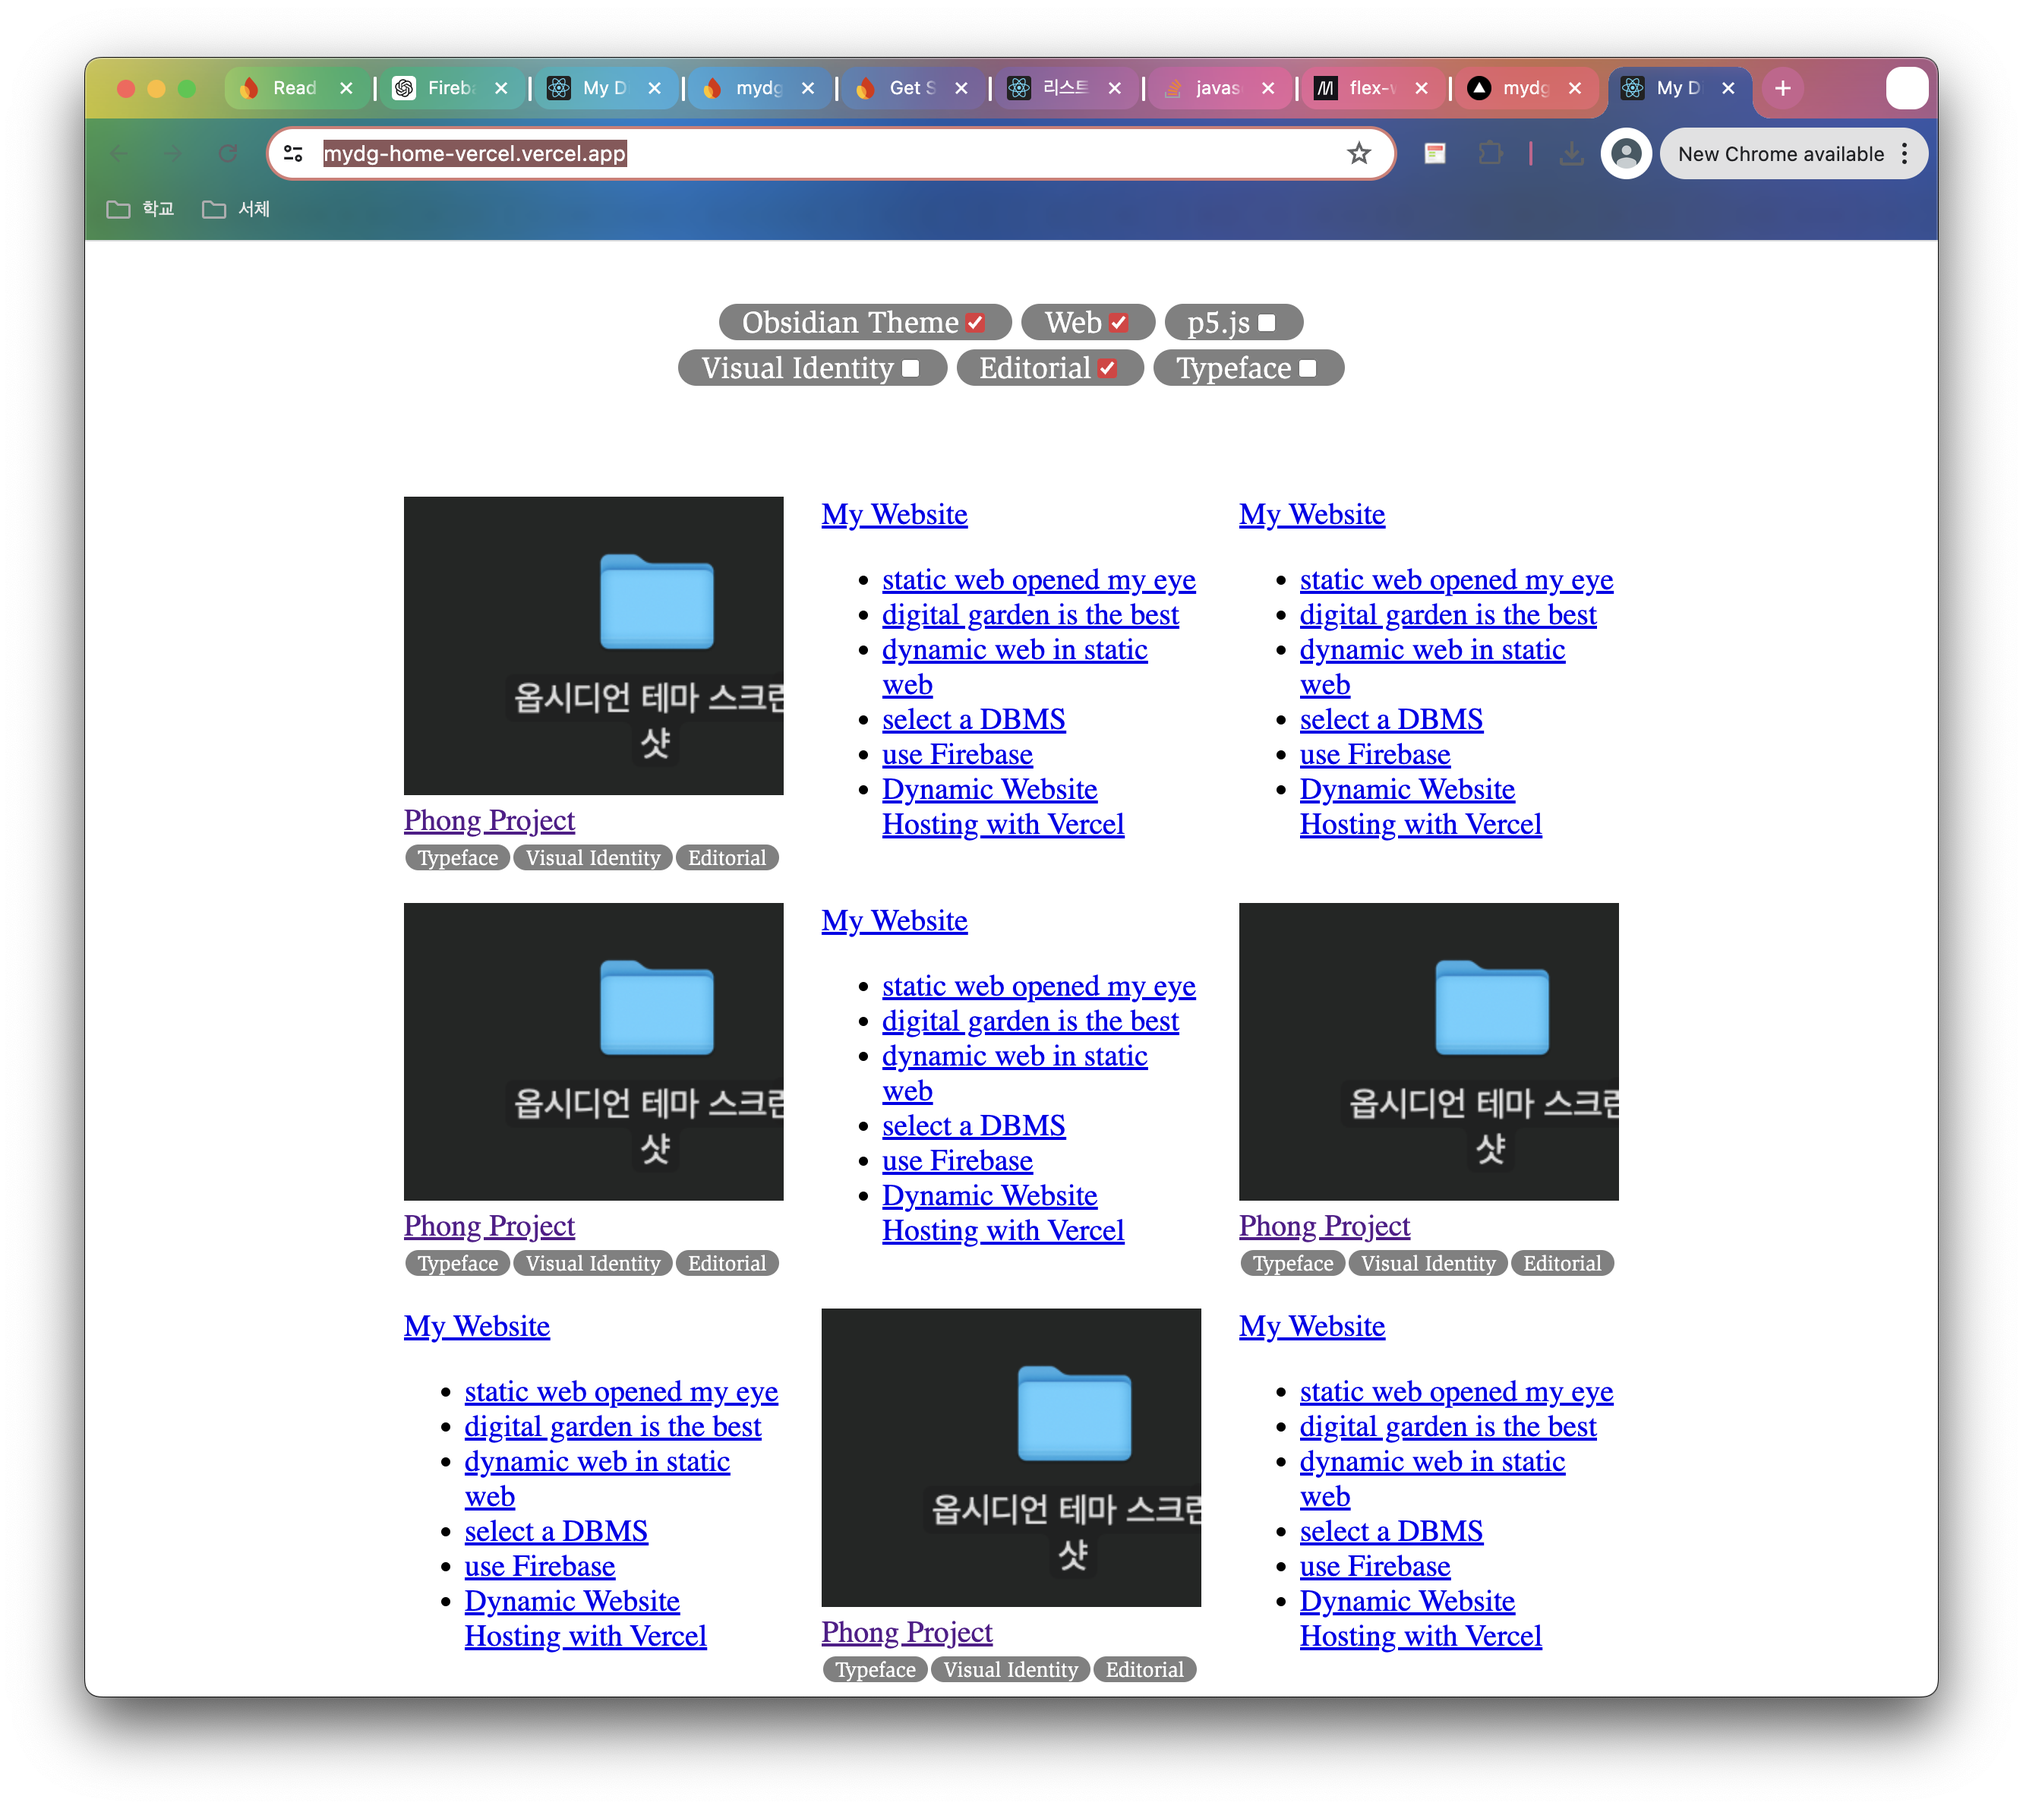
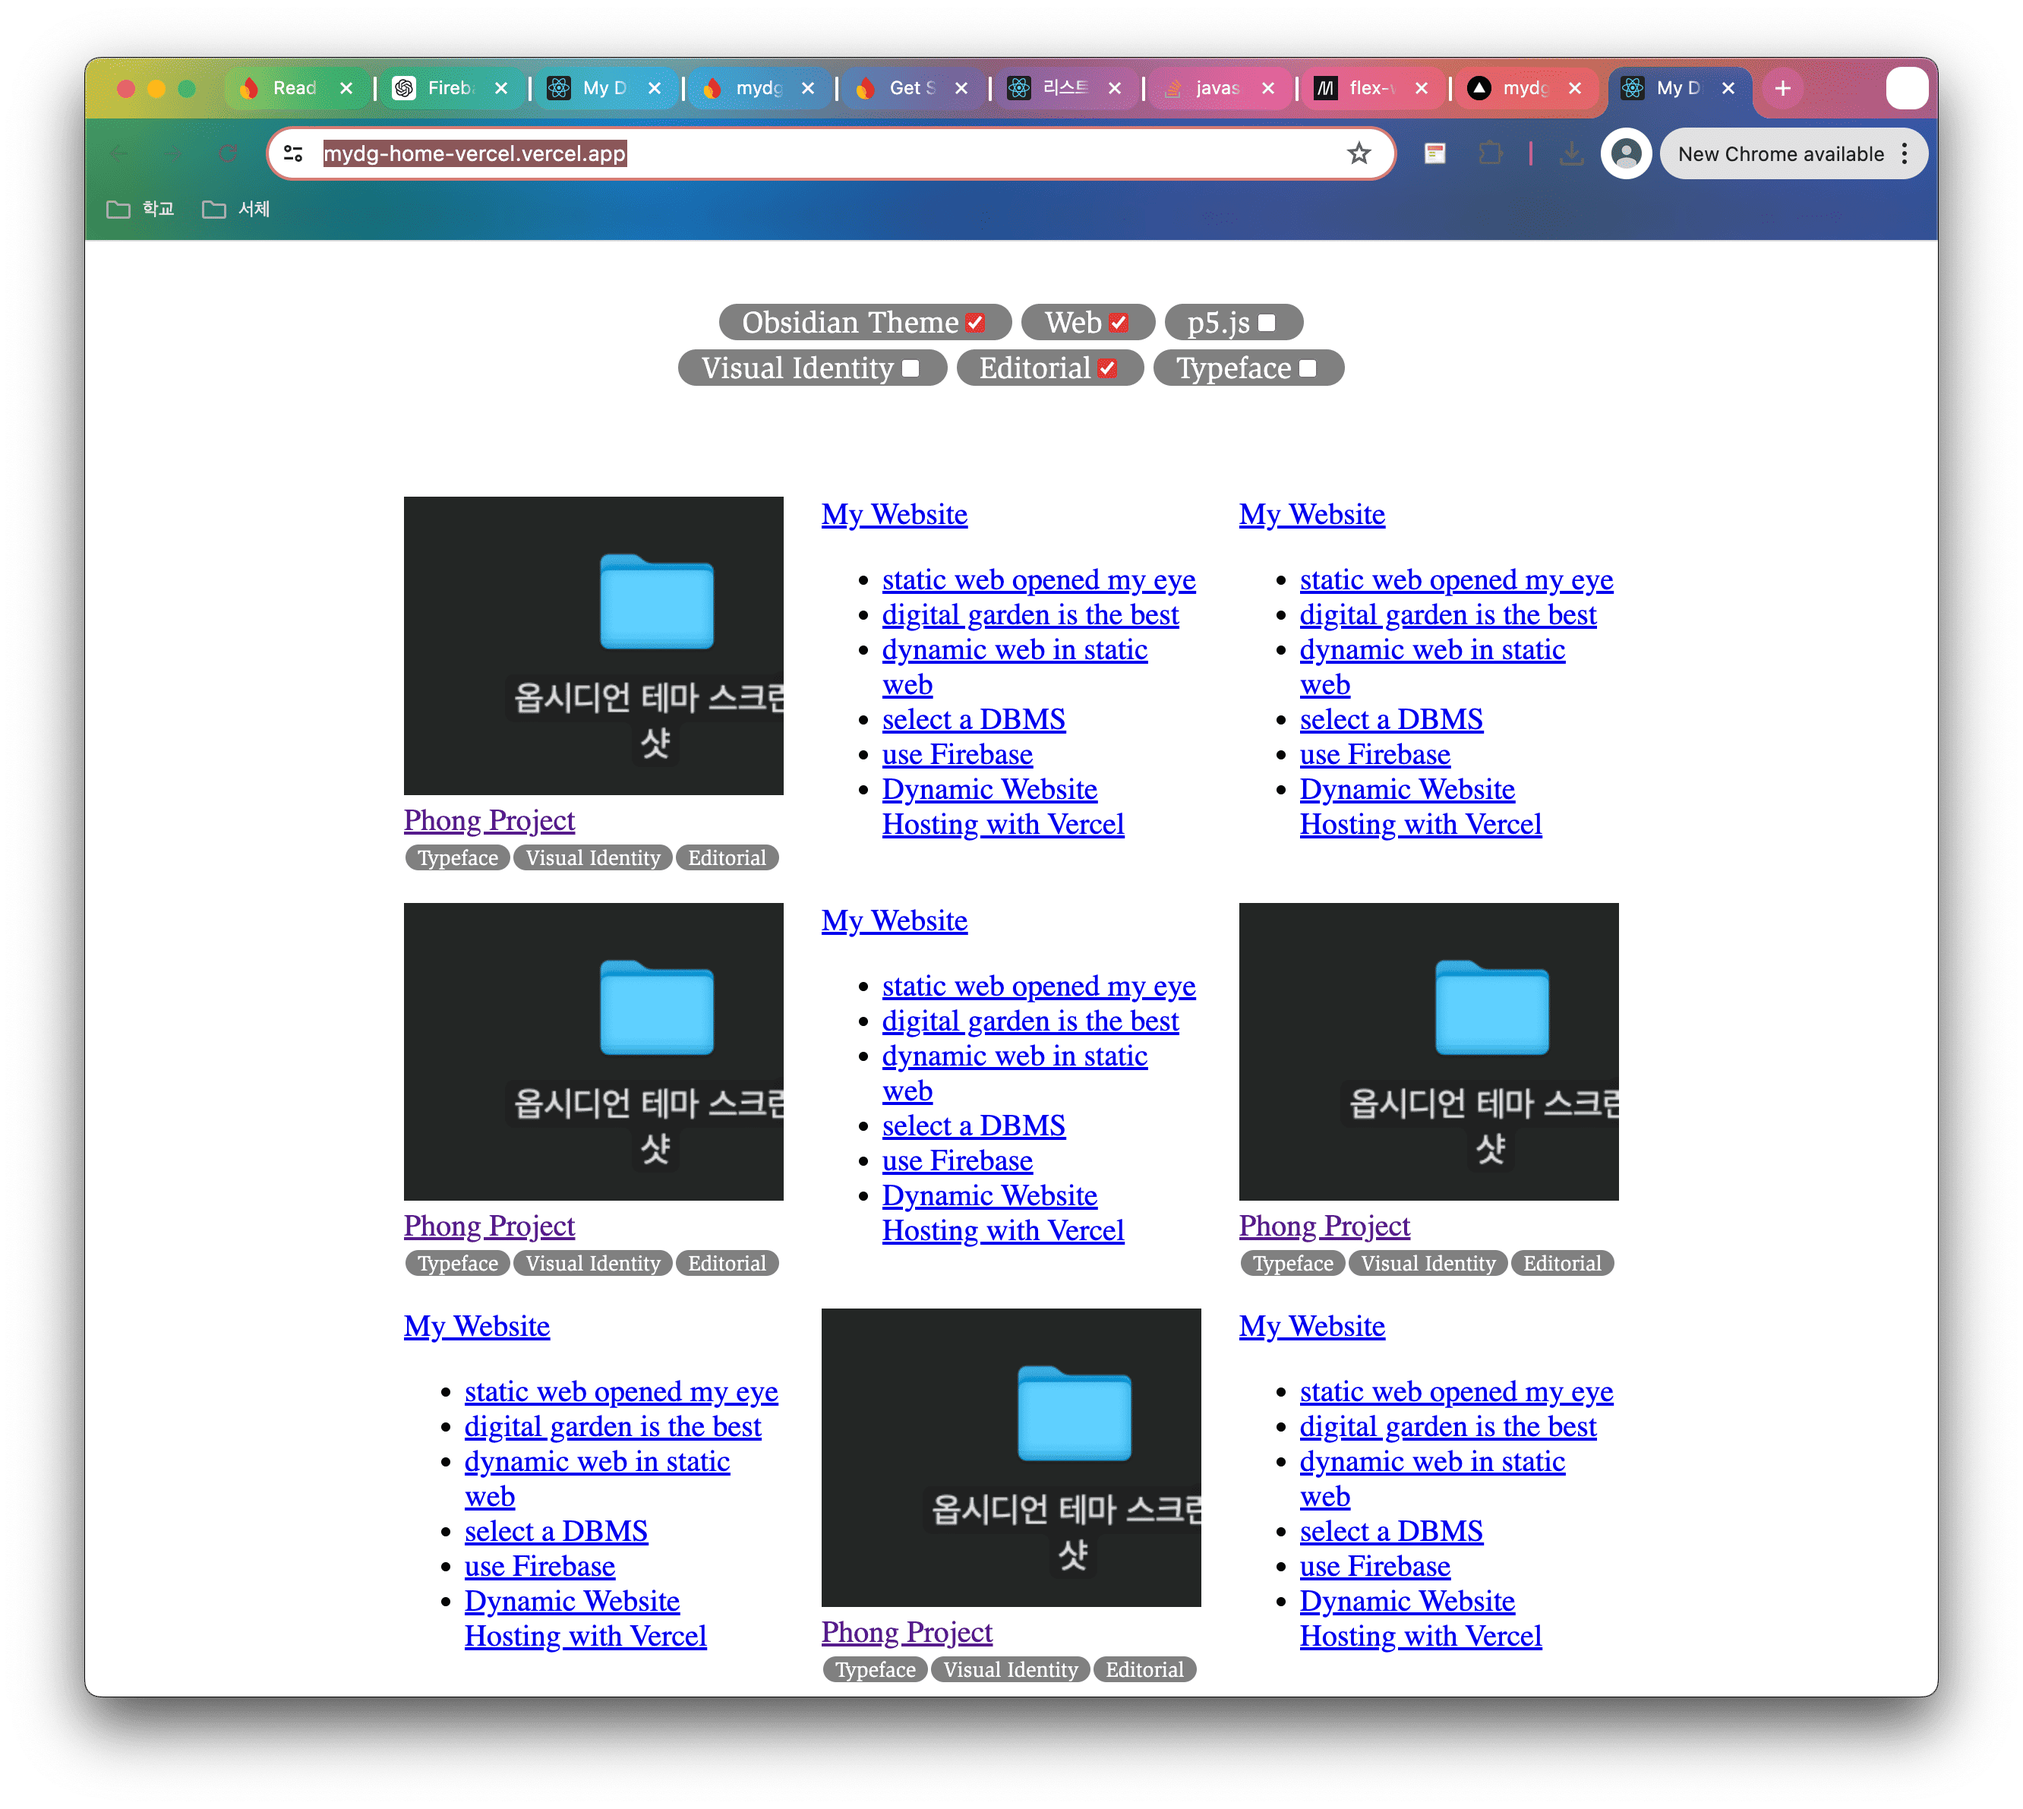
thumbnail img 압축

diff --git a/src/styles/global.css b/src/styles/global.css
@@ -207,6 +207,7 @@ small {
 img {
     width: 100%;
     height: auto;
+    border-radius: 5px;
 }
 
 blockquote {
